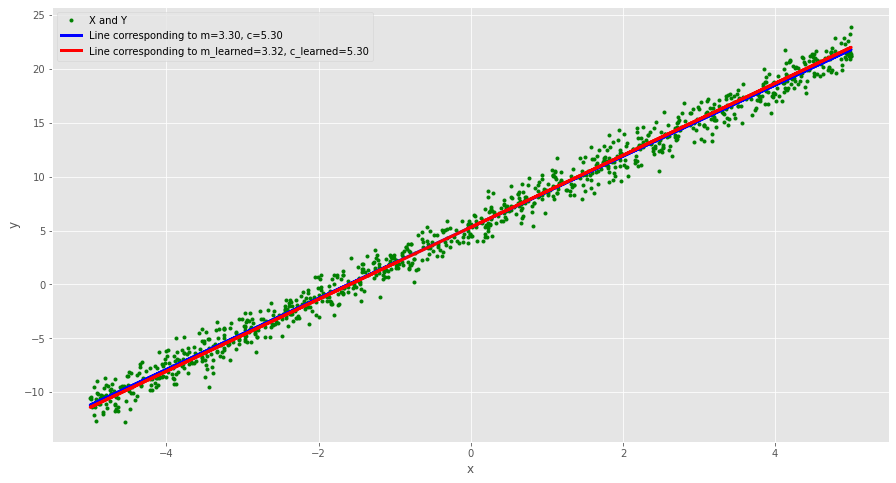
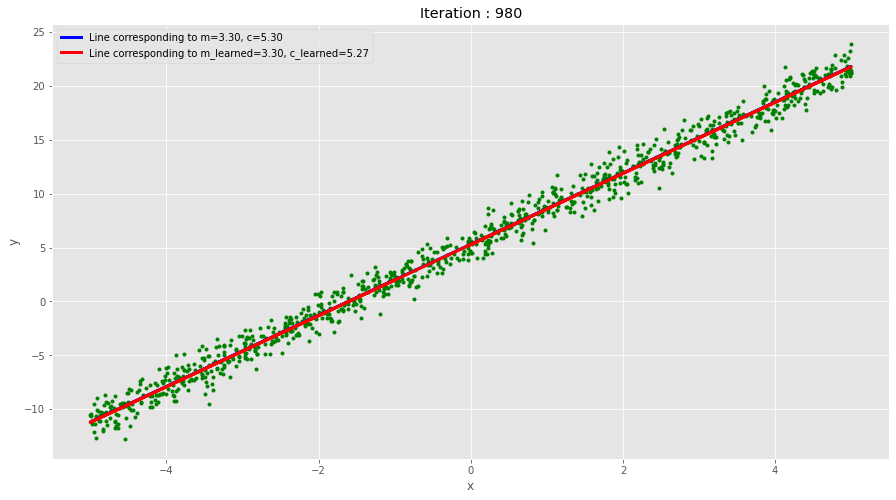
[4] results and discussion

diff --git a/assignment_4/content/06_results.tex b/assignment_4/content/06_results.tex
@@ -6,11 +6,20 @@
 
 Using the given python code and applying the gradient and weight calculation described in Section~\ref{ch:methods:sec:4} results in the line shown in Figure~\ref{problem4_result}.
 
-The original line is has a $m$ of $3.30$ and a $c$ of $5.3$ and the learned values are $3.32$ for $m$ and $5.3$ for $c$.
+The original line is has a $m$ of $3.30$ and a $c$ of $5.3$ and the learned values are $3.28$ for $m$ and $5.27$ for $c$.
 
 \begin{figure}[h]
 	\centering
     \includegraphics[width=17cm]{img/problem4_result.png}
 	\caption{Result of gradient decent}
     \label{problem4_result}
+\end{figure}
+
+The loss is also plotted in figure~\ref{problem4_result_loss}.
+
+\begin{figure}[h]
+	\centering
+    \includegraphics[width=17cm]{img/problem4_result_loss.png}
+    \caption{Loss of the gradient decent over the iterations}
+    \label{problem4_result_loss}
 \end{figure}

diff --git a/assignment_4/content/07_discussion.tex b/assignment_4/content/07_discussion.tex
@@ -3,3 +3,8 @@
 \section{Problem 2: Backpropagation}
 \section{Problem 3: Artificial neural network}
 \section{Problem 4: Gradient Descent}
+As is can seen in \ref{problem4_result} the result is very close to the actuall given line and fits very well.
+Over all nearly 1000 iterations are calculated but the first 150 iterations have the most impact to the loss.
+All further iterations still minimize the error but only with small effects.
+
+These results are indicators for a very well fitting model to calculate the gradient and weights.
